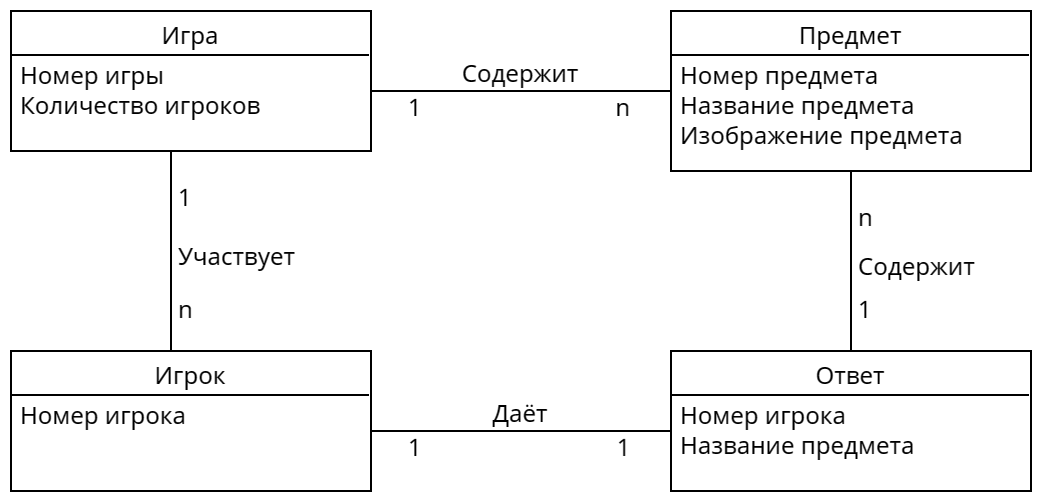
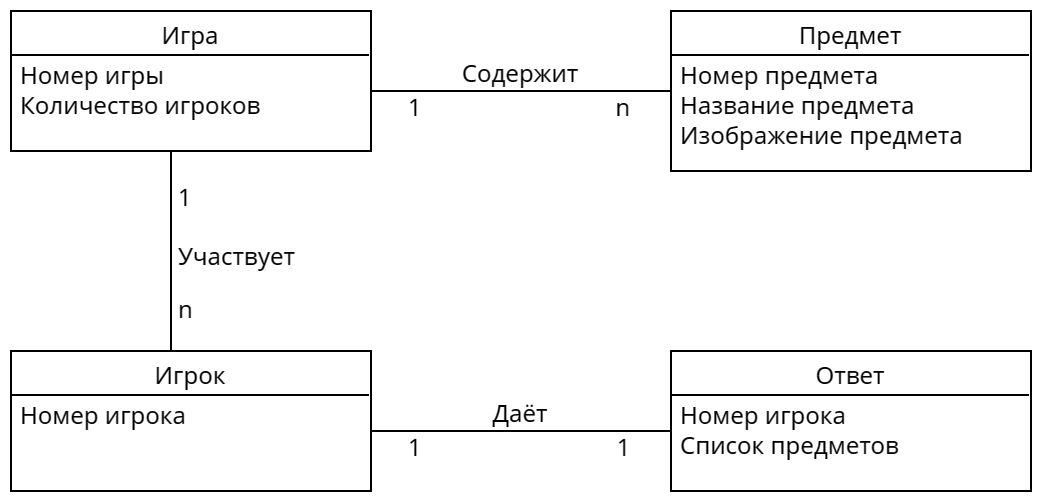
update lab2

Changed region(s): [[0.6462, 0.87, 0.8923, 0.93], [0.8, 0.51, 0.9538, 0.57], [0.8, 0.42, 0.8308, 0.45]]

diff --git a/lab2/lab2.md b/lab2/lab2.md
@@ -6,11 +6,8 @@
 Пользователь создаёт игру и указывает количество игроков. Номер игры генерируется автоматически.
 В одной игре может участвовать несколько игроков.
 #### Игра - Предмет
-Игра содержит в себе список из случайных предметов, которые отображаются игрокам.
+Игра содержит в себе список из случайных предметов, которые отображаются игрокам в начале игры, когда идёт время для запоминания, и в конце, на экране результатов.
 В одной игре содержится несколько предметов.
 #### Игрок - Ответ
-Игрок записывает названия тех предметов, которые запомнил, и передаёт их системе.
+Игрок записывает названия тех предметов, которые запомнил, и передаёт их системе. Список введённых игроком предметов сравнивается с действительным списком предметов, содержащихся в игре.
 Каждый игрок даёт только один ответ.
-#### Ответ - Предмет
-Список введённых игроком предметов сравнивается с действительным списком предметов, содержащихся в игре.
-Один ответ может содержать несколько предметов.
